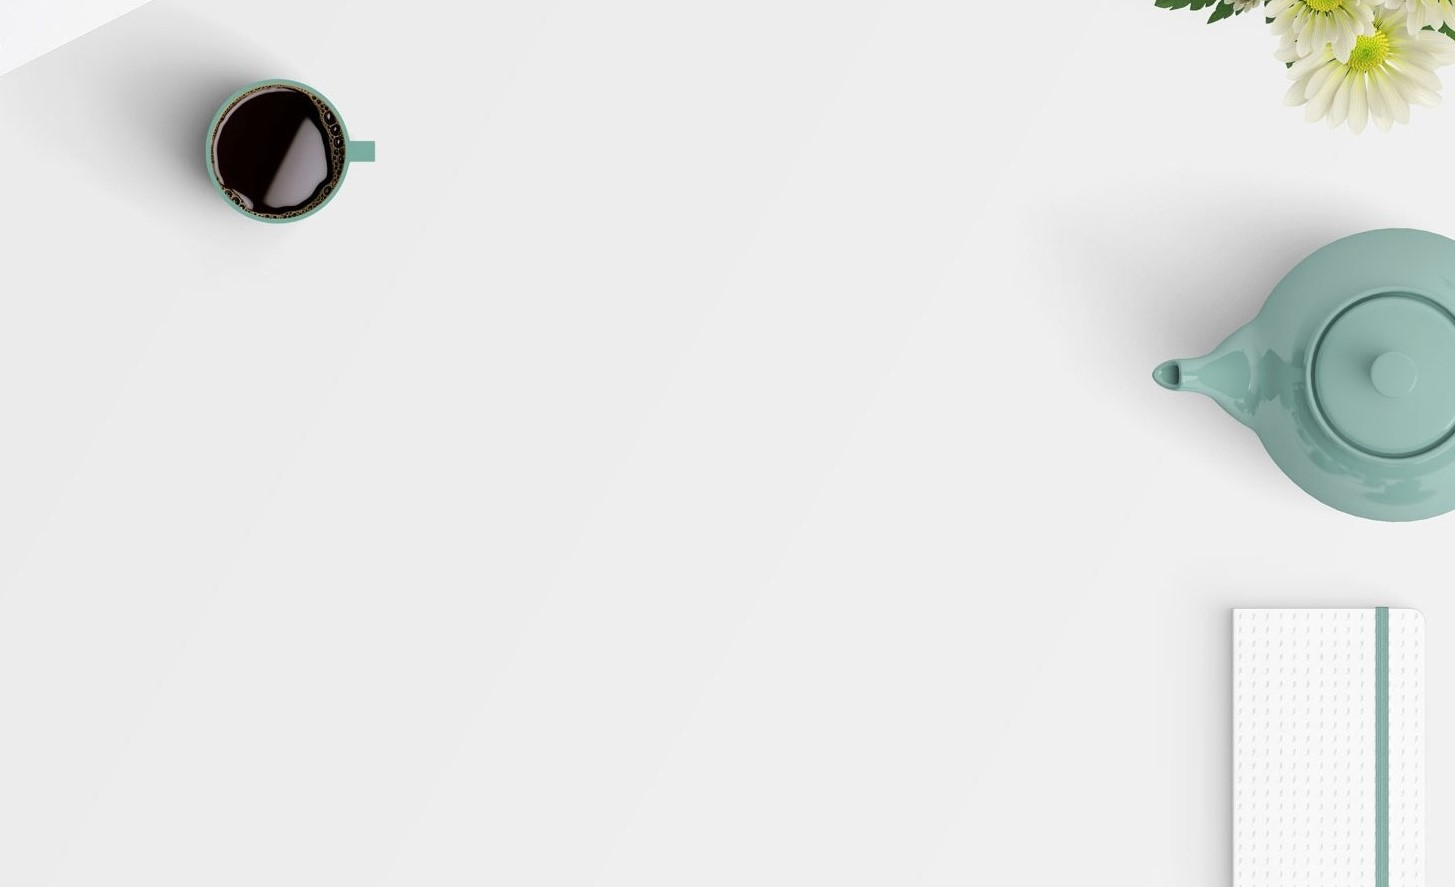
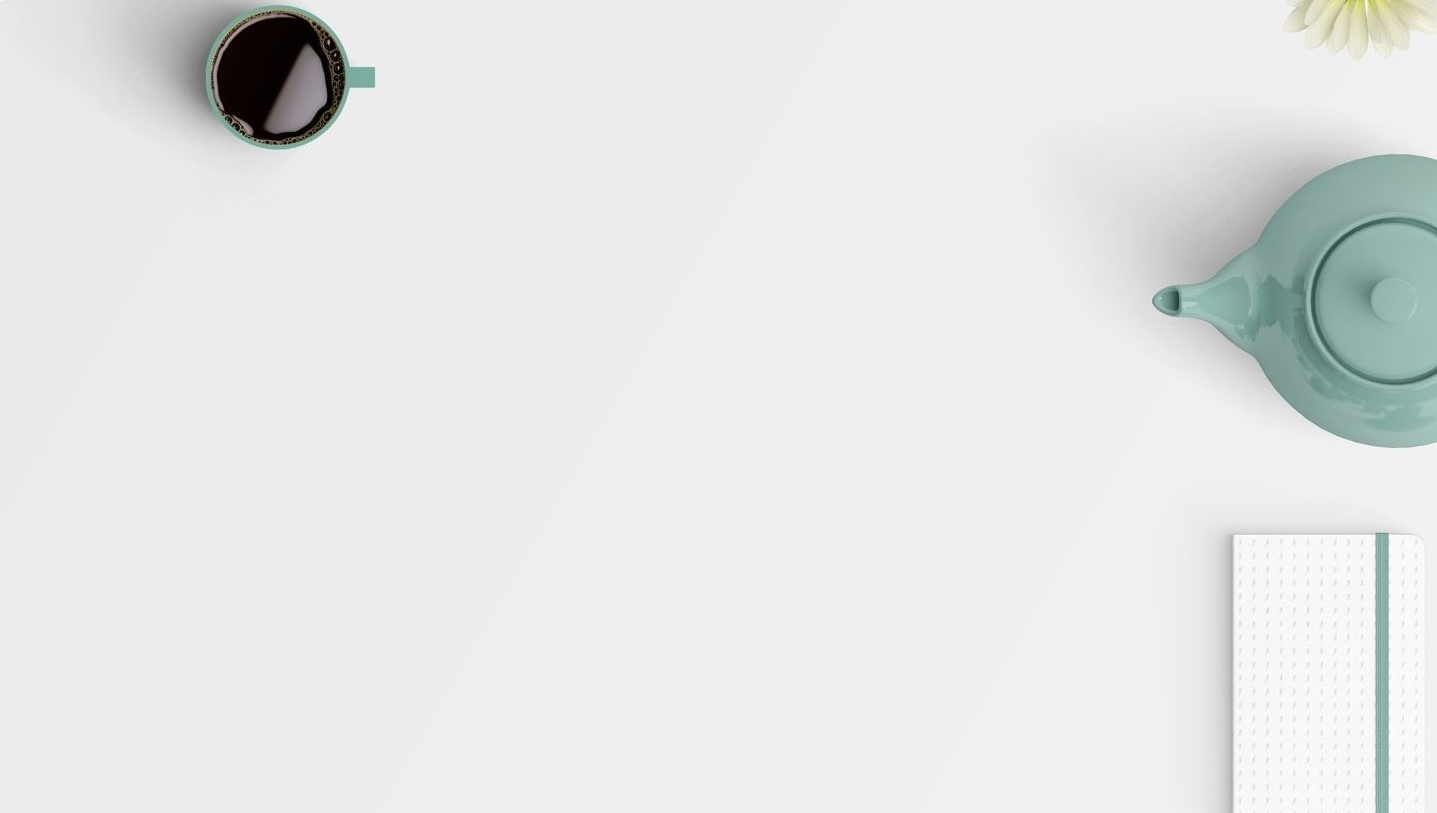
small changes

Changed region(s): [[0.7961, 0.0, 1.0, 0.615], [0.0612, 0.0, 0.2756, 0.2768], [0.8267, 0.6458, 0.9798, 1.0]]

diff --git a/css/style.css b/css/style.css
@@ -3,9 +3,7 @@
 body {
   padding: 0;
   margin: 0;
-  background-image: url("../img/background.jpg");
-  background-size: 1519px 800px;
-  background-repeat: no-repeat !important;
+  
 }
 
 #trans1 {
@@ -76,7 +74,11 @@ body {
   width: 100%;
   height: 680px; /*670*/
   /*	background-color: red;*/
+  background-image: url("../img/background1.jpg");
+  background-size: 1519px 750px;
+  background-repeat: no-repeat !important;
   font-family: "Raleway", sans-serif;
+
 }
 
 .caption .caption-text {
@@ -85,14 +87,12 @@ body {
   height: 100%;
   width: 80%;
   margin: 0 auto;
-  position: absolute;
-  top: 40%;
-  left: 10%;
+  display: flex;
+  justify-content: center;
+  align-items: center;
+  
 }
 
-.caption .caption-text .text {
-  z-index: -1;
-}
 
 .caption .caption-text .big-text {
   font-size: 45px;
@@ -103,13 +103,16 @@ body {
 }
 
 .caption .caption-text #btn {
-  width: 150px;
+  padding: 0;
+  margin: 0;
+  width: 160px;
   height: 40px;
   background-color: #000;
   border: none;
   color: white;
   font-size: 14px;
   transition: 0.3s;
+  cursor: pointer;
 }
 
 .caption .caption-text #btn:hover {
@@ -372,6 +375,7 @@ body {
 
 .client .row #col2 {
   flex: 1;
+  padding: 0;
 }
 
 .client .row #col2 img {
@@ -576,6 +580,7 @@ body {
   position: relative;
   text-align: center;
   transition: 0.2s;
+  width: 20rem;
 }
 
 .cards .row .card:hover {
@@ -735,13 +740,14 @@ textarea {
 
 .footer {
   width: 100%;
-  height: 400px;
+  min-height: 400px;
   display: flex;
   justify-content: center;
   text-align: center;
 }
 
 .footer .content {
+  width: 90%;
   margin: 80px 0px;
 }
 
@@ -755,11 +761,15 @@ textarea {
 }
 
 .footer .content form {
-  margin-left: 65px;
+  display: flex;
+  justify-content: center;
+  align-items: center;
+  flex-direction: row;
+  grid-gap: 5px;
 }
 
 .footer .content form input {
-  width: 400px;
+  width: 35%;
   height: 38px;
   border: none;
   border: 1px solid black;
@@ -770,7 +780,8 @@ textarea {
 .footer .content form button {
   width: 120px;
   height: 38px;
-  margin-left: 25px;
+  margin: 0;
+  padding: 0;
   color: #fff;
   font-size: 14px;
   border: 1px solid #000;
@@ -782,7 +793,7 @@ textarea {
   color: #000;
 }
 .footer .logos {
-  width: 40%;
+  width: 300px;
   height: 100px;
   margin: 50px auto;
   display: flex;
@@ -826,7 +837,7 @@ textarea {
 /*media quuery*/
 
 @media (max-width: 1232px) {
-  body {
+  .caption {
     background-image: url(../img/bg.jpg);
   }
 }
@@ -913,12 +924,25 @@ textarea {
 }
 
 @media (max-width: 735px) {
-  body {
+  .caption {
     background-image: url(../img/mobile.jpg);
   }
 
   .form .content {
     flex-direction: column;
+  }
+}
+
+@media (max-width : 600px)
+{
+  .footer .content form {
+    
+    flex-direction: column;
+  
+  }
+  .footer .content form input
+  {
+    width: 80%;
   }
 }
 
@@ -944,6 +968,16 @@ textarea {
   }
 }
 
+@media (max-width: 444px) {
+
+    .creative .img {
+      width: 300px;
+      height: 350px;
+      position: relative;
+    }
+
+  }
+
 @media (max-width: 478px) {
   .tri-logo {
     height: 940px;
@@ -961,7 +995,21 @@ textarea {
   .caption .caption-text .big-text {
     font-size: 40px;
   }
+
+  .cards .row .card {
+    width: 18rem;
+  }
 }
+
+@media (max-width: 380px) {
+
+    .creative .img {
+      width: 250px;
+      height: 300px;
+      position: relative;
+    }
+
+  }
 
 @media (max-width: 343px) {
   .tri-logo {

diff --git a/website.html b/website.html
@@ -83,7 +83,7 @@
   </div>
  <!---end of navbar--->
 
- <div class="caption">
+ <div class="caption"> 
  	<div class="caption-text" id="col2">
  		<div class="text">
  		  <div id="trans1" data-aos="fade-down" style="width: 100%;">
@@ -92,7 +92,7 @@
  	      <div id="trans2" data-aos="fade-up" style="width: 100%">
  	      <span class="small-text">Lorem ipsum dolor sit amet, consectetur adipisicing elit, sed<br> eiusmod
  	      tempor incididunt ut labore .</span><br><br>   
- 	      <button id="btn">PURCHASE NOW</button>
+ 	      <a href="#"><button id="btn">PURCHASE NOW</button></a>
  	     </div>
  	     </div>
  	</div>
@@ -365,7 +365,7 @@
  <div class="cards">
  	<div class="row">
  		<div class="card1" id="card" data-aos="fade-right">
- 			<div class="card" style="width: 20rem;">
+ 			<div class="card">
 				<img class="card-img-top" src="img/card1.jpg" alt="Card image cap">
 				<div class="card-body">
 					<h5 class="card-title">Cras sed elit sit amet.</h5>
@@ -385,9 +385,9 @@
                       <div class="col2">
                            <div class="content">
                             <div class="content">
-								<img src="img/heart.png" id="comment" ">
+								<img src="img/heart.png" id="comment" >
 							   <span id="number">959</span>
-							   <img src="img/comment.png" id="comment" ">
+							   <img src="img/comment.png" id="comment" >
 							   <span id="number">310</span>
 						   </div>
 						   </div>
@@ -396,7 +396,7 @@
 			</div>
  		</div>
  		<div class="card2" id="card" data-aos="fade-up">
- 			<div class="card" style="width: 20rem;">
+ 			<div class="card" >
 				<img class="card-img-top" src="img/card2.jpg" alt="Card image cap">
 				<div class="card-body">
 					<h5 class="card-title">Cras sed elit sit amet.</h5>
@@ -416,9 +416,9 @@
                       <div class="col2">
                            <div class="content">
                             <div class="content">
-								<img src="img/heart.png" id="comment" ">
+								<img src="img/heart.png" id="comment" >
 							   <span id="number">789</span>
-							   <img src="img/comment.png" id="comment" ">
+							   <img src="img/comment.png" id="comment">
 							   <span id="number">110</span>
 						   </div>
 						   </div>
@@ -427,7 +427,7 @@
 			</div>
  		</div>
  		<div class="card3" id="card" data-aos="fade-left">
- 			<div class="card" style="width: 20rem;">
+ 			<div class="card">
 				<img class="card-img-top" src="img/card3.jpg" alt="Card image cap">
 				<div class="card-body">
 					<h5 class="card-title">Cras sed elit sit amet.</h5>
@@ -447,9 +447,9 @@
                       <div class="col2">
                            <div class="content">
                             <div class="content">
-								<img src="img/heart.png" id="comment" ">
+								<img src="img/heart.png" id="comment" >
 							   <span id="number">859</span>
-							   <img src="img/comment.png" id="comment" ">
+							   <img src="img/comment.png" id="comment" >
 							   <span id="number">210</span>
 						   </div>
 						   </div>
